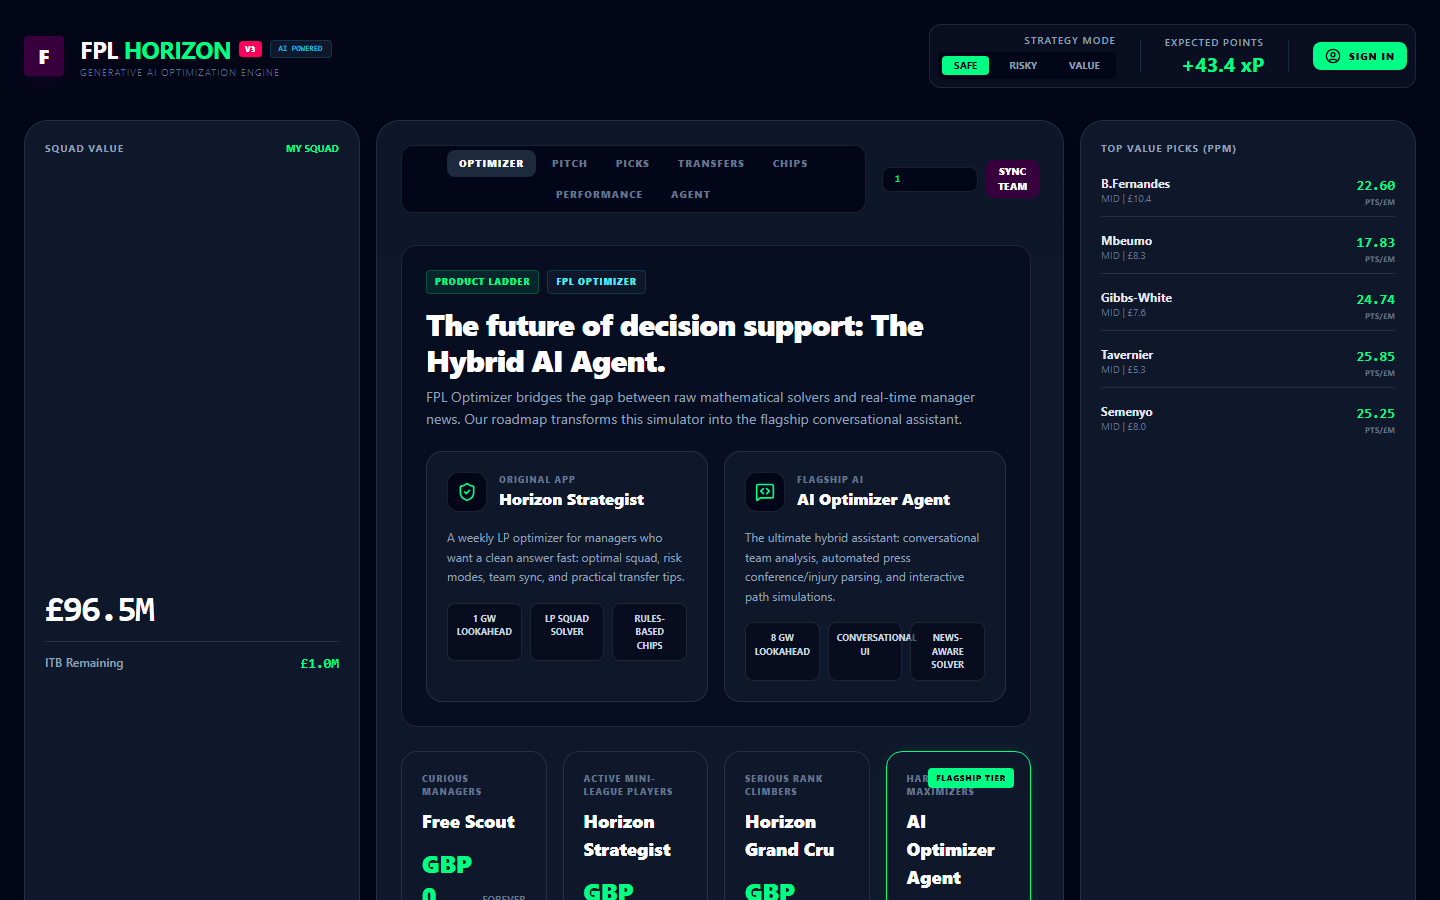
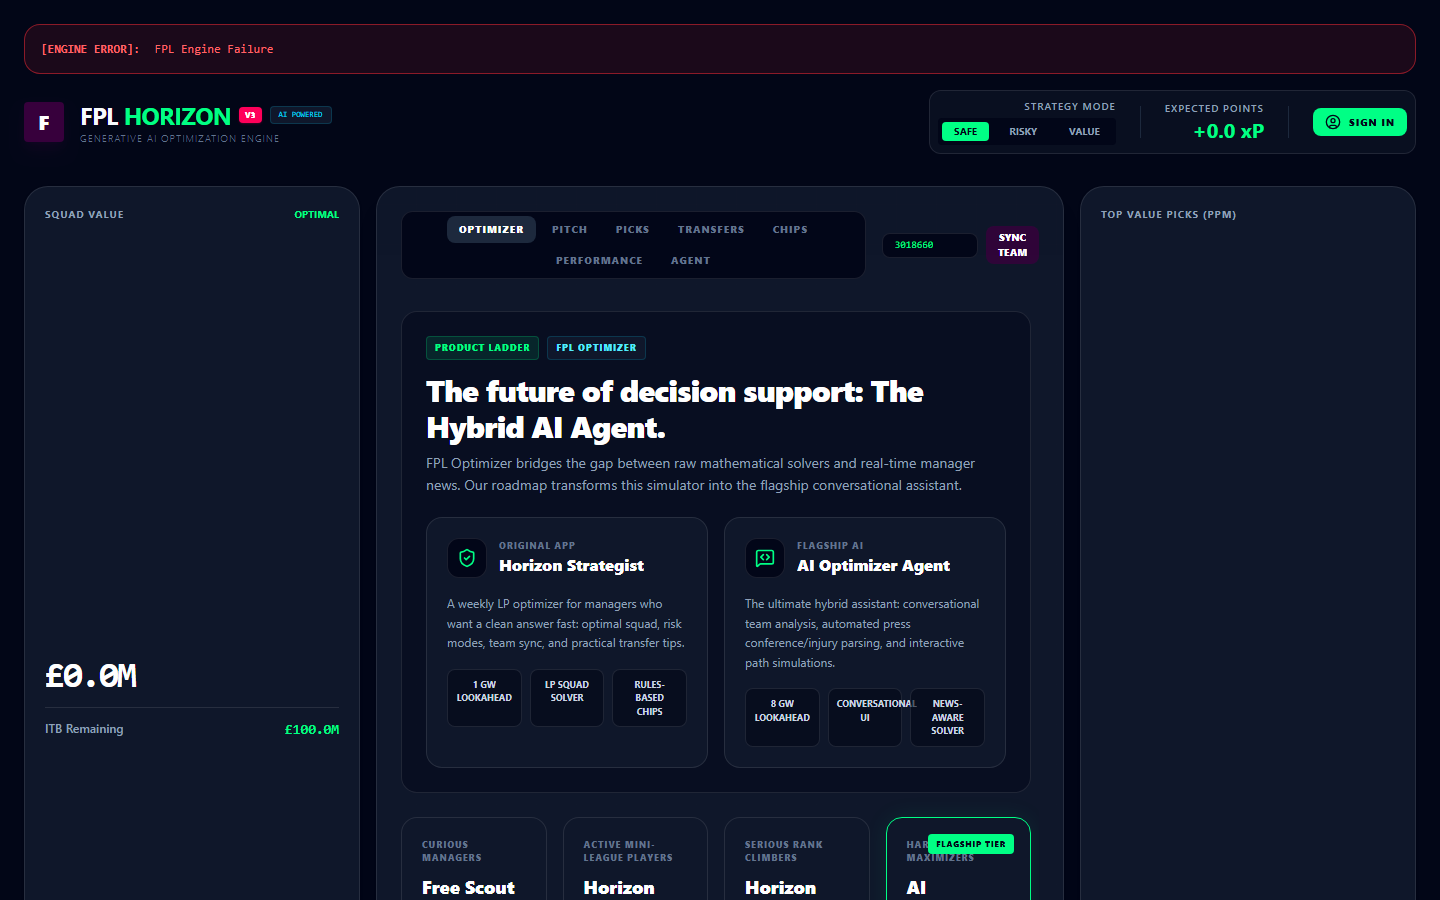
chore: realistically capture updated dashboard with 52.0 xP via Playwright

diff --git a/scripts/capture-dashboard.js b/scripts/capture-dashboard.js
@@ -1,0 +1,38 @@
+import { chromium } from 'playwright';
+import path from 'path';
+
+const OUT_FILE = path.join(process.cwd(), 'public', 'fpl_horizon_dashboard.png');
+
+(async () => {
+  try {
+    console.log("Launching browser against live app...");
+    const browser = await chromium.launch();
+    
+    // Set a good 16:10 desktop resolution
+    const desktopContext = await browser.newContext({ viewport: { width: 1440, height: 900 } });
+    const page = await desktopContext.newPage();
+    
+    console.log("Navigating to https://fplhorizon.app/...");
+    await page.goto('https://fplhorizon.app/');
+    
+    console.log("Waiting for UI to render...");
+    await page.waitForTimeout(5000);
+    
+    console.log("Syncing team...");
+    await page.getByPlaceholder('TEAM ID').fill('3018660');
+    await page.getByRole('button', { name: 'SYNC TEAM' }).click();
+    
+    console.log("Waiting for data to load (15s)...");
+    await page.waitForTimeout(15000); 
+
+    console.log(`Taking screenshot and saving to ${OUT_FILE}...`);
+    // Capture the normal viewport dashboard view
+    await page.screenshot({ path: OUT_FILE });
+
+    console.log("Screenshot saved successfully!");
+    await browser.close();
+  } catch (e) {
+    console.error("Failed to generate screenshot:", e);
+    process.exit(1);
+  }
+})();
